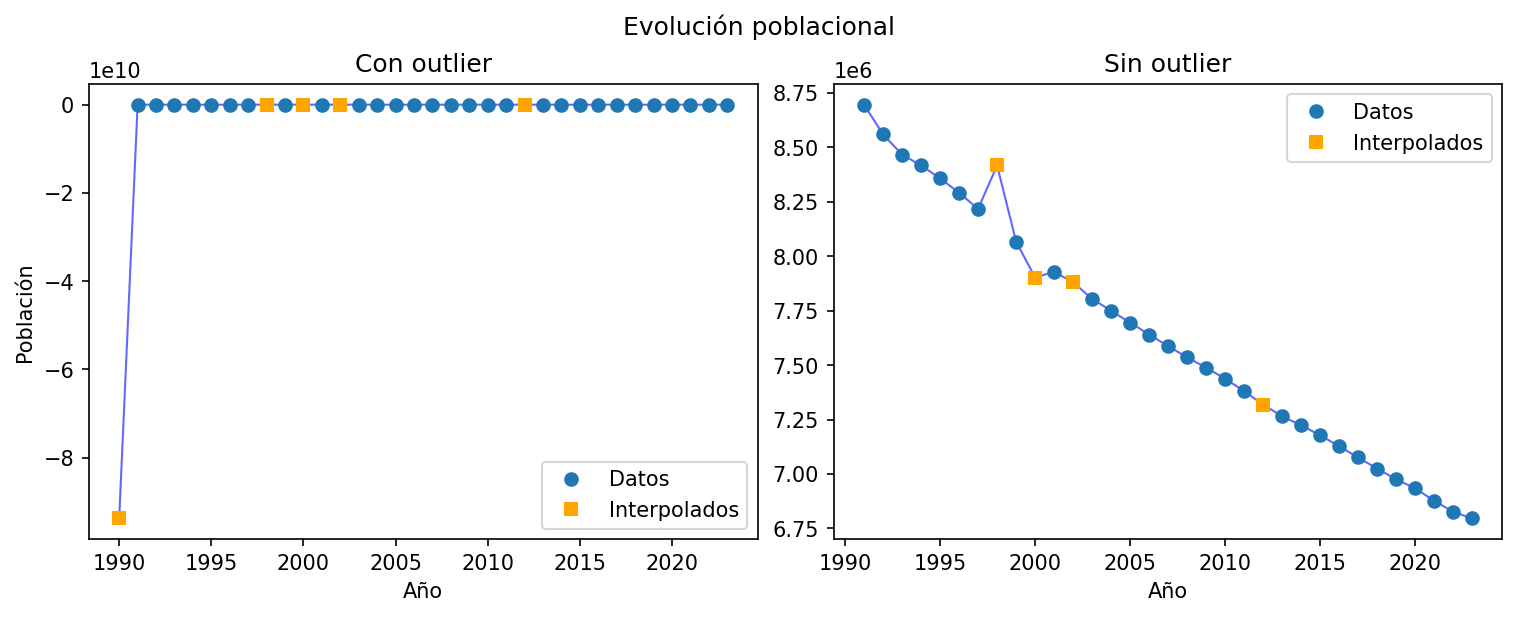
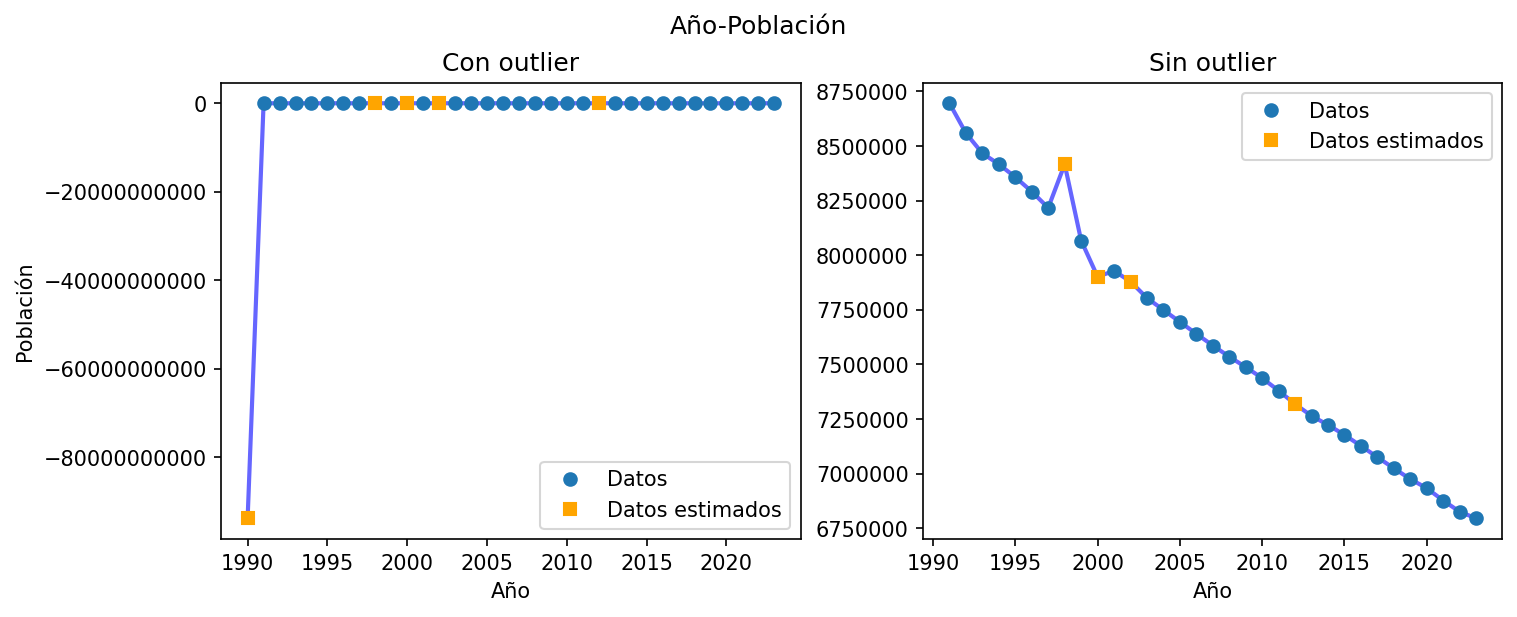
correcion graficos

diff --git a/utils_module.py b/utils_module.py
@@ -9,6 +9,7 @@ import pandas as pd
 
 from interpolation_algorithm_module import lagrange_interpolation, interpolate_by_list
 from dataclasses import dataclass
+from matplotlib.ticker import ScalarFormatter
 
 plt.switch_backend("Agg")
 
@@ -133,8 +134,14 @@ def plot_aprox(points):
     ax_right.set_title("Sin outlier")
     ax_right.set_xlabel("Año")
     ax_right.legend()
+        
+    formatter = ScalarFormatter(useOffset=False)
+    formatter.set_scientific(False)
 
-    plt.suptitle("Evolución poblacional")
+    ax_left.yaxis.set_major_formatter(formatter)
+    ax_right.yaxis.set_major_formatter(formatter)
+
+    plt.suptitle("Año-Población")
     output_dir = "out"
     os.makedirs(output_dir, exist_ok=True)
     output_path = os.path.join(output_dir, "evolucion_poblacional.png")
